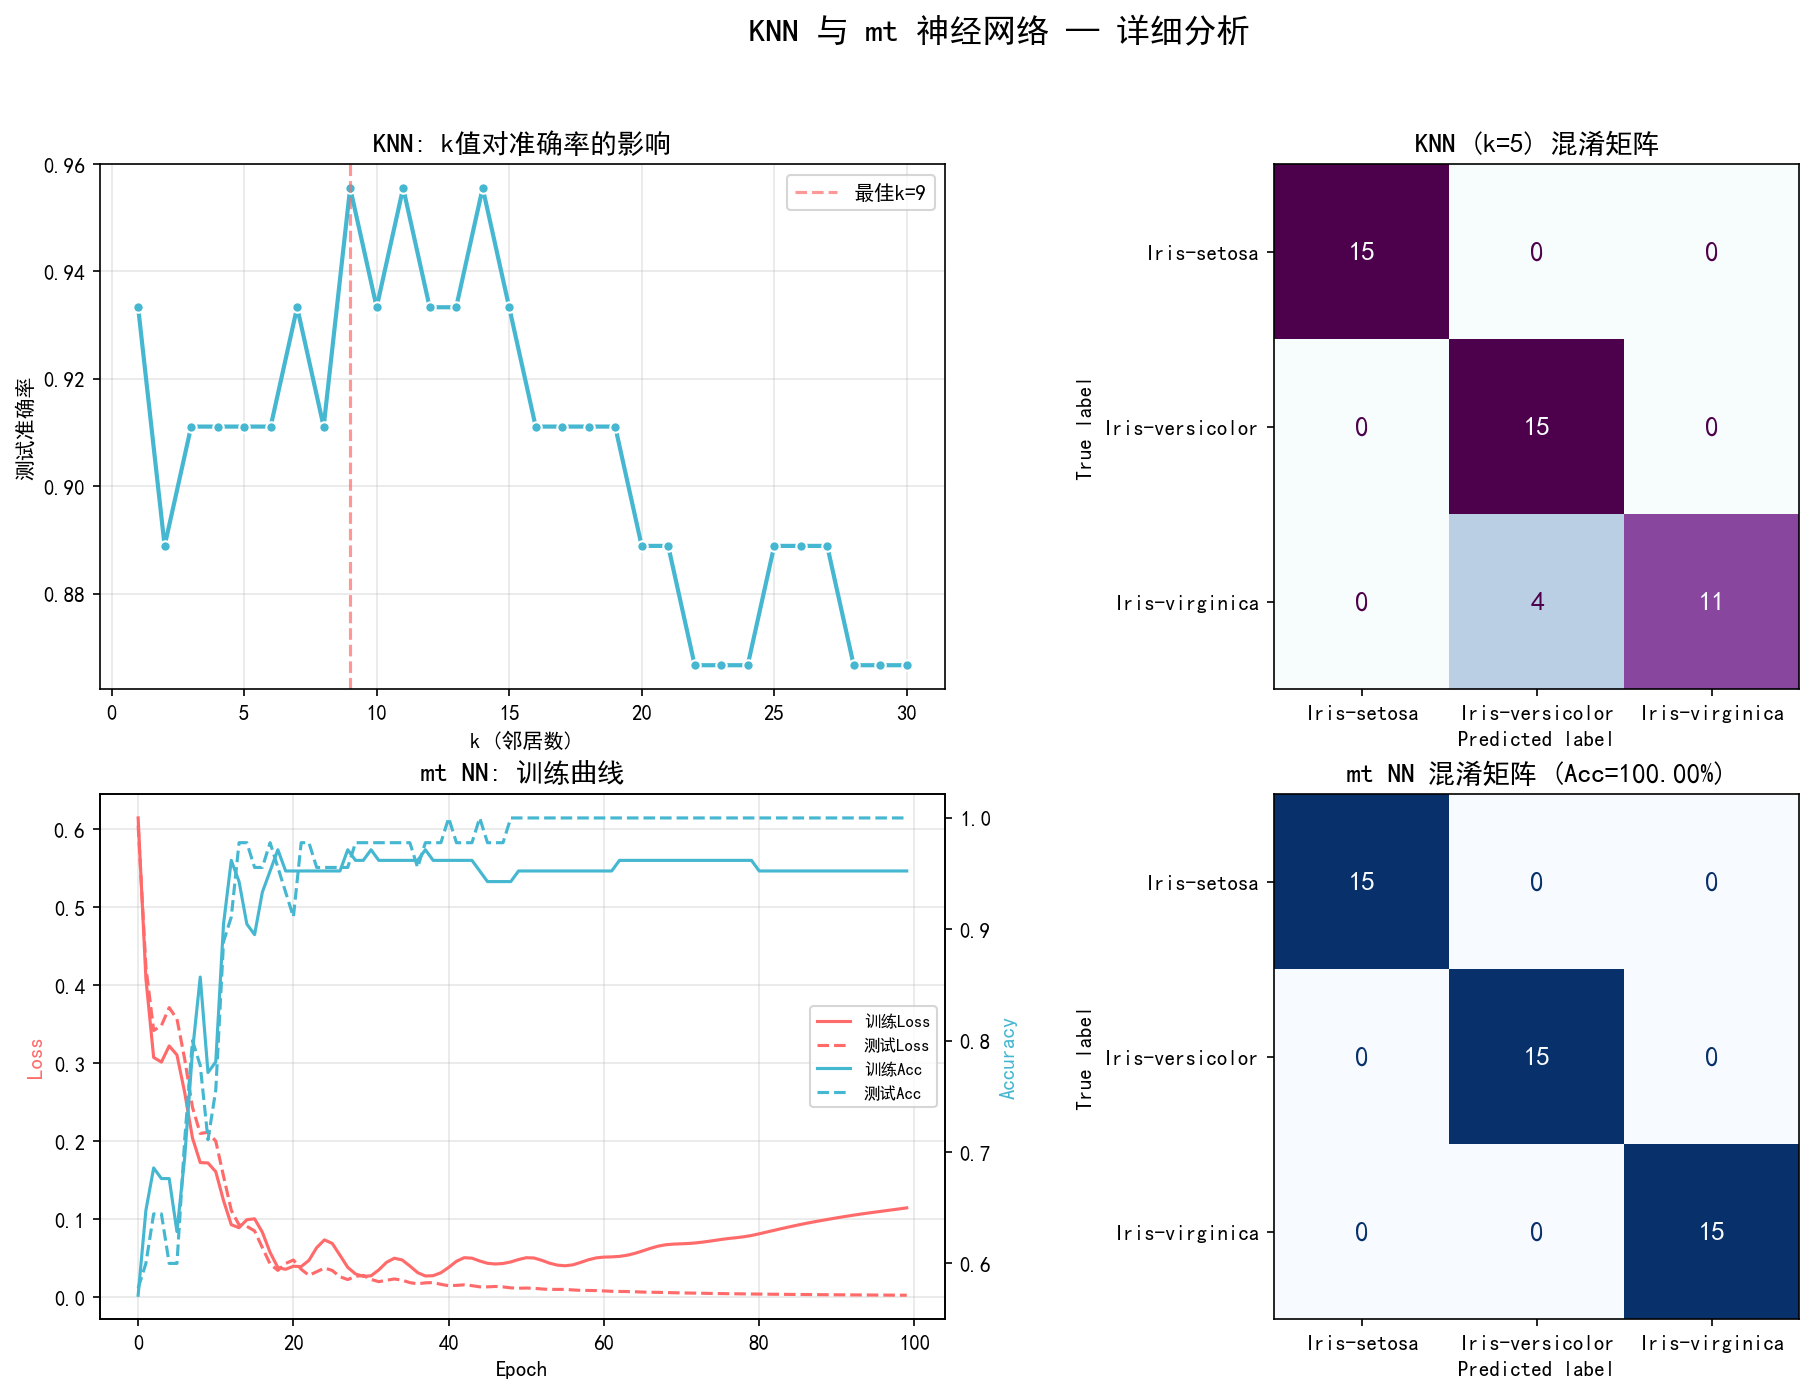
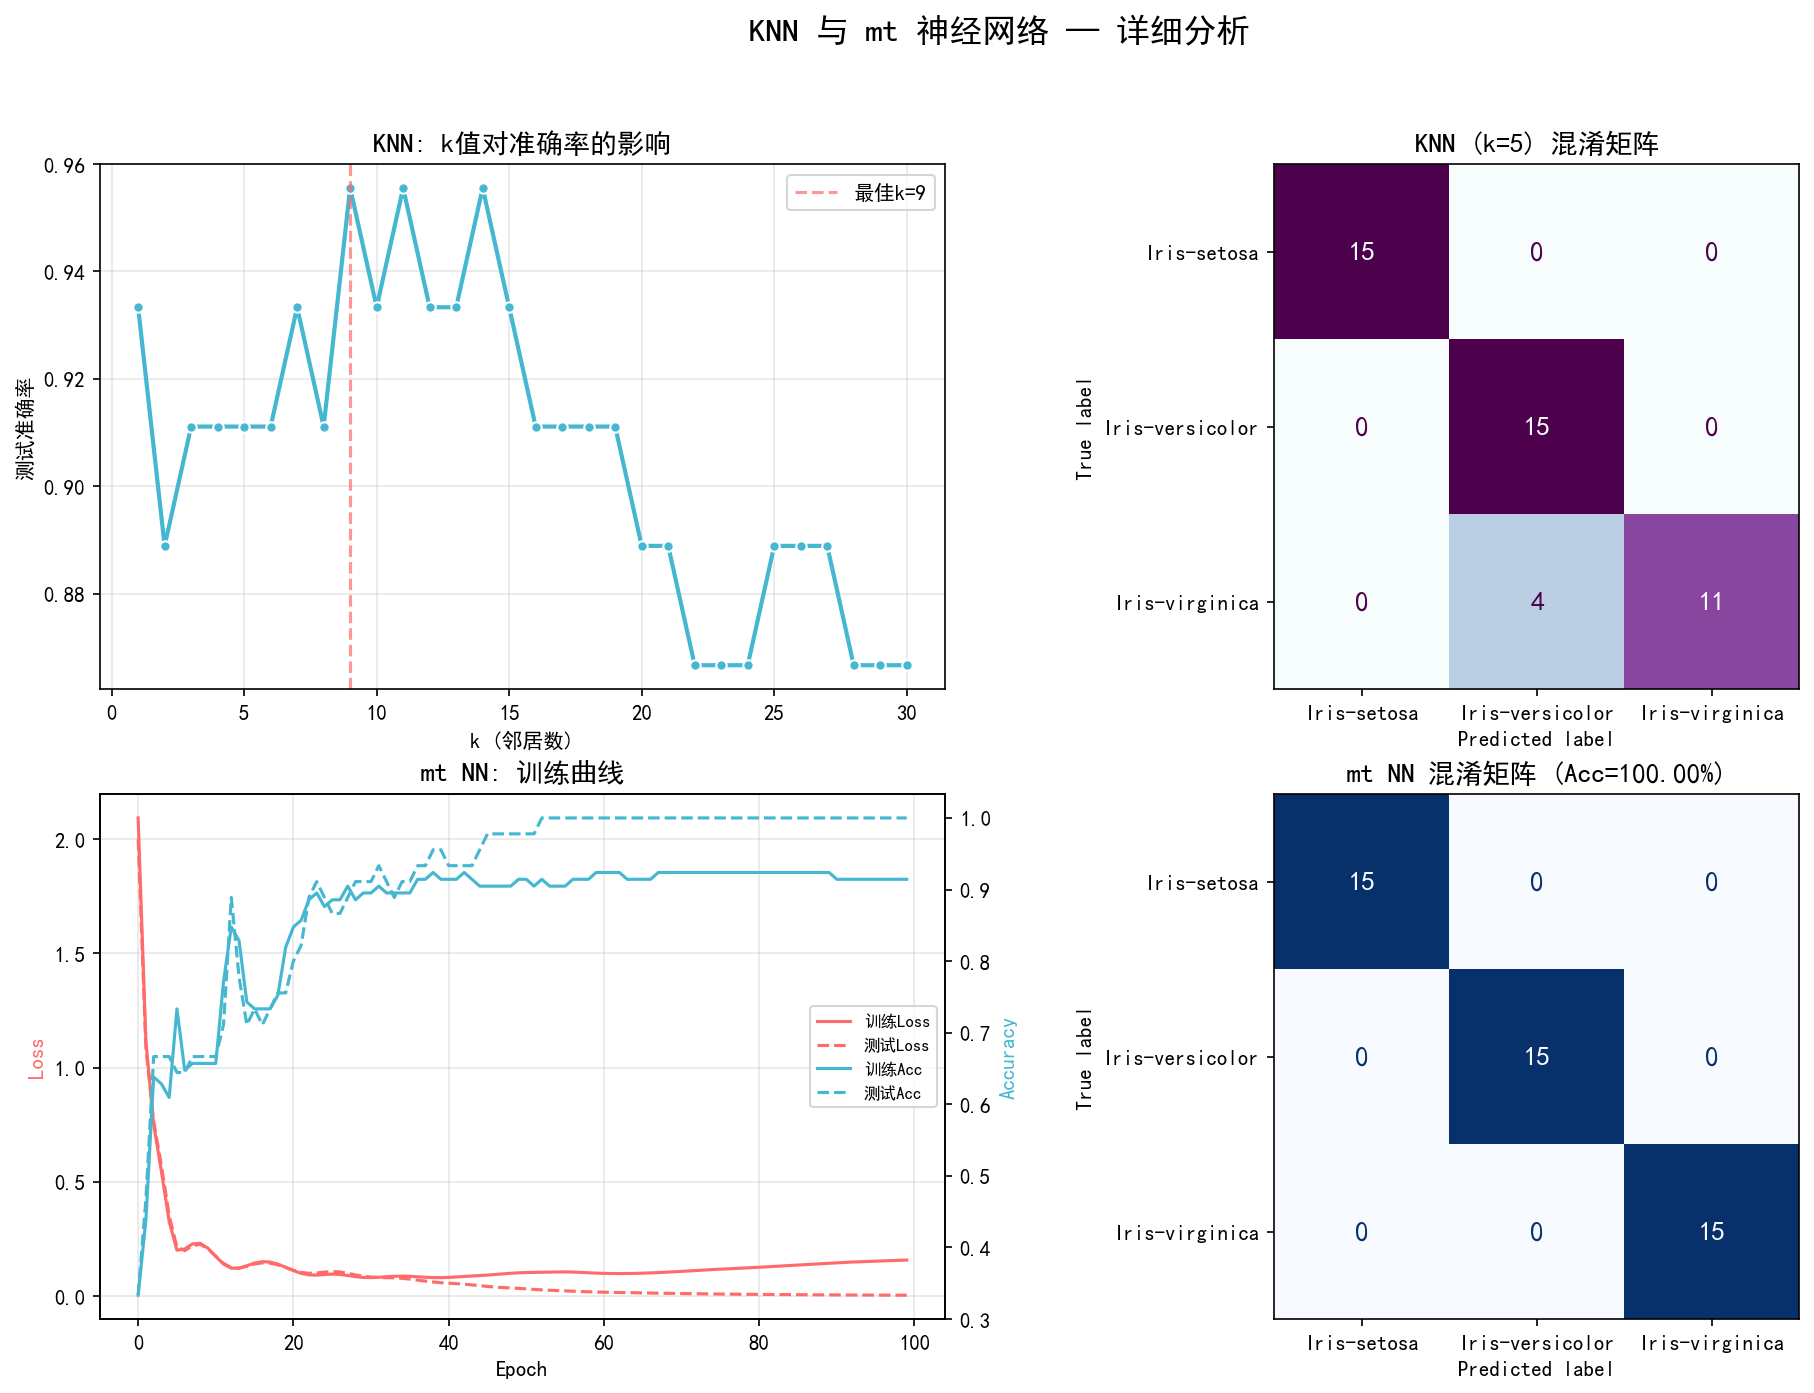
fix: repair 7 critical bugs in mt framework

Changed region(s): [[0.0309, 0.5865, 0.4939, 0.9261], [0.5248, 0.8952, 0.5557, 0.9261], [0.0309, 0.5865, 0.0617, 0.6174]]

diff --git a/mt/core/optm.py b/mt/core/optm.py
@@ -25,7 +25,7 @@ def _backwards_(op_node: Operation) -> Dict[Operation | Node | Variable, float]:
     :return: grad_table 梯度表：{节点: 该节点的梯度值}
     """
     # 梯度表：存储每个计算节点对应的梯度值，初始损失节点梯度为1（d(loss)/d(loss)=1）
-    grad_table = {op_node: 1.}
+    grad_table = {op_node: np.array(1.0)}
     # 已访问节点集合：防止重复计算，避免循环依赖
     visit_nodes = set()
     # BFS队列：按层级遍历计算图节点
@@ -163,14 +163,14 @@ class Adam(Optimizer):
         self.beta1 = beta1
         self.beta2 = beta2
 
-        self.prod_beta1 = 1
-        self.prod_beta2 = 1
-        self.node2m = {}  # history value
-        self.node2v = {}  # accumulate value
+        self.t = 0
+        self.node2m = {}  # 一阶矩估计
+        self.node2v = {}  # 二阶矩估计
 
     def backward(self, loss_node: Operation | Node):
         lr = self.learning_rate
         grad_table = _backwards_(op_node = loss_node)
+        self.t += 1
         for node in grad_table:
             if isinstance(node, Variable):
                 grad = grad_table[node]
@@ -184,10 +184,8 @@ class Adam(Optimizer):
                 else:
                     self.node2v[node] = self.beta2 * self.node2v[node] + (1 - self.beta2) * grad * grad
 
-                self.prod_beta1 *= self.beta1
-                self.prod_beta2 *= self.beta2
-                m_hat = self.node2m[node] / (1 - self.prod_beta1)
-                v_hat = self.node2v[node] / (1 - self.prod_beta2)
+                m_hat = self.node2m[node] / (1 - self.beta1 ** self.t)
+                v_hat = self.node2v[node] / (1 - self.beta2 ** self.t)
 
                 node.data -= lr * m_hat / (np.sqrt(v_hat + EPSILON))
 

diff --git a/mt/core/function/gradiend.py b/mt/core/function/gradiend.py
@@ -175,12 +175,10 @@ def __relu_gradient(op_node: Operation, grad: np.ndarray):
     """
     ReLU激活函数 反向梯度
     relu(x)' = 1 (x>0), 0 (x≤0)
-    简化实现：用输出/输入直接求导
     :return: [输入梯度]
     """
     x = op_node.input_nodes[0].data
-    y = op_node.data
-    k = y / x  # 梯度系数：x>0=1，x≤0=0
+    k = np.where(x > 0, 1.0, 0.0)
     return [k * grad]
 
 
@@ -189,12 +187,10 @@ def __leaky_relu(op_node: Operation, grad: np.ndarray):
     """
     Leaky ReLU激活函数 反向梯度
     leaky_relu(x)' = 1 (x>0), alpha (x≤0)
-    简化实现：用输出/输入直接求导
     :return: [输入梯度]
     """
     x = op_node.input_nodes[0].data
-    y = op_node.data
-    k = y / x
+    k = np.where(x >= 0, 1.0, op_node.alpha)
     return [k * grad]
 
 

diff --git a/mt/core/base.py b/mt/core/base.py
@@ -327,6 +327,8 @@ class reduce_mean(Operation):
         return np.mean(x_v, axis = self.axis)
 
 
+from mt.core.constant import EPSILON
+
 class log(Operation):
     """对数操作"""
 
@@ -334,7 +336,4 @@ class log(Operation):
         super().__init__(input_nodes = [x], node_name = node_name)
 
     def compute(self, x_v: np.ndarray):
-        # 非法值校验：对数输入不能≤0
-        if (x_v <= 0).any():
-            back_print("Oops, invalid value encountered in 'log', I guess you forget activation function", color = "yellow")
-        return np.log(x_v)
+        return np.log(np.clip(x_v, EPSILON, None))

diff --git a/mt/core/constant.py b/mt/core/constant.py
@@ -26,3 +26,9 @@ class runtime:
     global_calc_graph = list()
     nn_cnt = defaultdict(int)
     grad_table = None
+
+    @classmethod
+    def reset_graph(cls):
+        cls.global_calc_graph.clear()
+        cls.nn_cnt.clear()
+        cls.grad_table = None

diff --git a/mt/core/net/linear.py b/mt/core/net/linear.py
@@ -71,10 +71,11 @@ class Linear(nnVarOperator):
         :param X: 输入节点（必须是计算图Node类型）
         :return: 层输出节点
         """
-        if not isinstance(X, Node | Placeholder):  # 输入类型校验：必须是框架的Node节点
+        if not isinstance(X, (Node, Placeholder)):  # 输入类型校验：必须是框架的Node节点
             raise ValueError("Linear's parameter X must be a Node!")
         out = mt.core.base.matmul(X, self.W, node_name = self.cur_name)  # 矩阵乘法 X @ W （线性变换核心）
-        out = mt.core.base.add(out, self.b, node_name = self.cur_name)  # 加上偏置项 out = X@W + b
+        if self.bias:
+            out = mt.core.base.add(out, self.b, node_name = self.cur_name)  # 加上偏置项 out = X@W + b
 
         if self.act:  # 如果指定了激活函数，执行激活
             act_func = runtime.activate_func[self.act]

diff --git a/mt/core/initialize.py b/mt/core/initialize.py
@@ -50,7 +50,7 @@ def uniform_init(shape: Tuple[int, int, ...], input_size = None, output_size = N
     # 均匀分布范围：±1/√(维度)，加EPSILON防止分母为0
     return np.random.uniform(
         low = -1 / (np.sqrt(input_size) + EPSILON),
-        high = -1 / (np.sqrt(output_size) + EPSILON),
+        high = 1 / (np.sqrt(output_size) + EPSILON),
         size = shape)
 
 
@@ -103,7 +103,7 @@ def he_uniform_init(shape: Tuple[int, int, ...], input_size = None) -> np.ndarra
         input_size = shape[0]
     return np.random.uniform(
         -np.sqrt(6 / input_size + EPSILON),
-        -np.sqrt(6 / input_size + EPSILON),
+        np.sqrt(6 / input_size + EPSILON),
         shape)
 
 